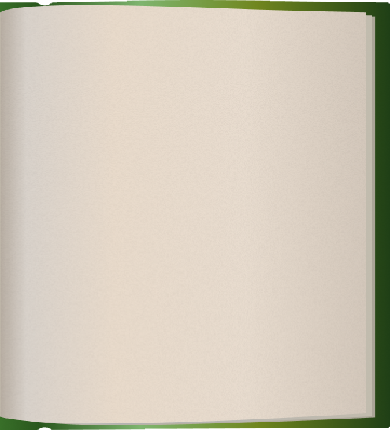
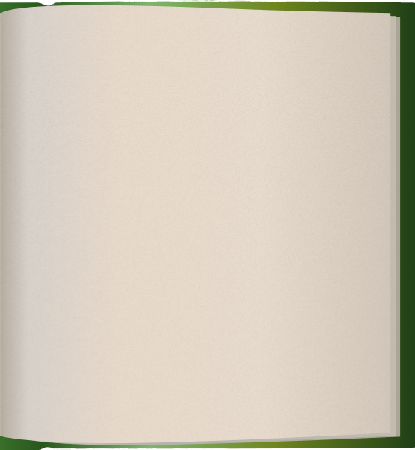
desktop version ready

diff --git a/src/Util/data.js b/src/Util/data.js
@@ -1,27 +1,50 @@
-import story1 from "../assets/story1.png";
-import story2 from "../assets/story2.png";
-import story3 from "../assets/story3.png";
-import story4 from "../assets/story4.png";
-import story5 from "../assets/story5.png";
-import story6 from "../assets/story6.png";
-import story7 from "../assets/story7.png";
-import story8 from "../assets/story8.png";
-import story9 from "../assets/story9.png";
-import story10 from "../assets/story10.png";
-import story11 from "../assets/story11.png";
-import story12 from "../assets/story12.png";
+import aStory1 from "../assets/aStory1.png";
+import aStory2 from "../assets/aStory2.png";
+import aStory3 from "../assets/aStory3.png";
+import aStory4 from "../assets/aStory4.png";
+import aStory5 from "../assets/aStory5.png";
+import aStory6 from "../assets/aStory6.png";
+import aStory7 from "../assets/aStory7.png";
+import aStory8 from "../assets/aStory8.png";
 
 export const stories = [
-  story1,
-  story2,
-  story3,
-  story4,
-  story5,
-  story6,
-  story7,
-  story8,
-  story8,
-  story10,
-  story11,
-  story12,
+  {
+    img: aStory1,
+    text: "Эта история берет свое начало в послевоенное время, когда мир пытался справиться с последствиями разрухи.",
+  },
+
+  {
+    img: aStory2,
+    text: "Мы с братом не могли сидеть сложа руки, веря в то, что способны помочь себе и окружающим пережить это время. ",
+  },
+
+  {
+    img: aStory3,
+    text: "Собрав на последние средства нашего селения экспедицию, мы отправились к берегам Южной Америки, где за легендами...",
+  },
+
+  {
+    img: aStory4,
+    text: " Но нашим мечтам было не суждено сбыться. Судно попало в сильный шторм и было полностью разрушено, а мы вынесены волнами на необитаемый остров.",
+  },
+
+  {
+    img: aStory5,
+    text: "7 долгих дней блужданий по острову обессилили нас. Лишь смелость сердец и вера в удачу вела вперед.",
+  },
+
+  {
+    img: aStory6,
+    text: "В тот день, когда отчаяние начало брать верх, впереди замаячил свет костра в непроходимых джунглях. Это казалось чудом. Им оно и было. ",
+  },
+
+  {
+    img: aStory7,
+    text: "У костра сидела девушка, красота которой затмевала лунный свет и заставляла сердце биться чаще.",
+  },
+
+  {
+    img: aStory8,
+    text: "Так начинается наша история. Продолжим ее вместе?",
+  },
 ];

diff --git a/src/components/MyBook/MyBook.jsx b/src/components/MyBook/MyBook.jsx
@@ -21,18 +21,22 @@ export function MyBook() {
   };
 
   const onPage = (e) => {
-    setBookPage(e.data);
+    if(e.data === 0) {
+      setBookPage(e.data);
+    } else if (e.data === 1) {
+      setBookPage(e.data);
+    }
   };
 
-
+console.log("render");
 
   return (
-    <>
+    <div className="container">
       <div className="flipbook">
         <HTMLFlipBook
           className="book"
-          width={390}
-          height={415}
+          width={435}
+          height={550}
           showCover={true}
           maxShadowOpacity={0}
           ref={bookRef}
@@ -40,7 +44,7 @@ export function MyBook() {
         >
           <PageCover number="0"></PageCover>
           {stories.map((story, index) => (
-            <Page key={index} number={index + 1} story={story} />
+            <Page key={index} number={index + 1} img={story.img} text={story.text} />
           ))}
         </HTMLFlipBook>
       </div>
@@ -49,7 +53,6 @@ export function MyBook() {
            <img src={openarrow} alt="open-book-arrow" />
         </button>
       ) : (
-        <div className="container">
           <div className="button-container">
             <button className="previous-button" type="button" onClick={prevButtonClick}>
               <img src={openarrow} alt="previous-arrow" />
@@ -58,18 +61,7 @@ export function MyBook() {
             <img src={nextarrow} alt="next-arrow" />
             </button>
           </div>
-        </div>
       )}
-     {/*  <div className="container">
-        <div>
-          <button type="button" onClick={prevButtonClick}>
-            Previous page
-          </button>
-          <button type="button" onClick={nextButtonClick}>
-            Next page
-          </button>
-        </div>
-      </div> */}
-    </>
+    </div>
   );
 }

diff --git a/src/components/Page/page.scss b/src/components/Page/page.scss
@@ -1,22 +1,25 @@
+@import "../../style/fonts";
+
+
 .rightpage {
     background: url("../../assets/page.png");
 }
 
 .rightpage::before {
     top: -20px;
-    right: -20px;
+    right: -29px;
     position: absolute;
     display: inline-block;
     z-index: -5;
-    width: 410px;
-    height: 450px; 
+    width: 465px;
+    height: 595px; 
     content: '';
-    background: url("../../assets/rightpagex.png");
+    background: url("../../assets/rptestR.png");
     background-size: cover;
 }
 
 .leftpage {
-    background: url("../../assets/page.png");
+    background: url("../../assets/lptestR.png");
 }
 
 .leftpage::before {
@@ -25,10 +28,10 @@
     position: absolute;
     display: inline-block;
     z-index: -5;
-    width: 410px;
-    height: 450px; 
+    width: 465px;
+    height: 595px; 
     content: '';
-    background: url("../../assets/leftpagex.png");
+    background: url("../../assets/leftpageok.png");
     background-size: cover;
 }
 
@@ -36,6 +39,11 @@
 .page {
     position: relative;
     padding-top: 50px;
+    display: flex;
+    flex-direction: column;
+    justify-content: space-between;
+    align-items: center;
+    
     
     &__story {
         border-radius: 5px;
@@ -44,12 +52,23 @@
     }
 
     &__number {
+        font-family: "Mariupol"; 
+        font-weight: 400;
         position: absolute;
-        bottom:-8px;
-        left: 191px;
+        bottom:-10px;
+        left: 213px;
     }
 
     &__frame {
         padding-top: 25px;
     }
+
+    &__text {
+        font-family: "Mariupol";
+        font-weight: 400;
+        font-size: 16px;
+        width: 380px;
+        height: 75px;
+    }
+
 }

diff --git a/src/components/MyBook/book.scss b/src/components/MyBook/book.scss
@@ -1,3 +1,12 @@
+.container {
+    position: relative;
+    max-width: 1288px;
+    min-height: 768px;
+    margin: 0 auto;
+    display: flex;
+    justify-content: center;
+    align-items: center;
+  }
 
 .book {
     text-align: center;
@@ -7,14 +16,14 @@
     display: flex;
     justify-content: center;
     align-items: center;
-    width: 780px;
-    height: 415px;
+    width: 870px;
+    height: 550px;
 }
 
 .open-button {
     position: absolute;
     top: 50%;
-    right: 490px;
+    right: 0px;
     transform: translateY(-50%);
     border: none;
     outline: none;
@@ -25,10 +34,11 @@
   }
 
   .previous-button {
+    width:48px;
+    height: 48px;
     position: absolute;
-    bottom: 100px;
-    right: 381px;
-    transform: translateY(-50%);
+    top: -5px;
+    left: -13px;
     border: none;
     outline: none;
     font-size: 0;
@@ -38,10 +48,11 @@
   }
 
   .next-button {
+    width:48px;
+    height: 48px;
     position: absolute;
-    bottom: 90px;
-    right: 317px;
-    transform: translateY(-50%);
+    top: 0px;
+    right: 5px;
     border: none;
     outline: none;
     font-size: 0;
@@ -55,14 +66,11 @@
     justify-content: space-between;
     align-items: center;
     position: absolute;
-    bottom: 20px;
-    width: 100%;
+    bottom: 10px;
+    width: 130px;
+    height: 50px;
   }
   
-  .container {
-    position: relative;
-    height: 100%;
-  }
   
   
   

diff --git a/src/components/Page/Page.jsx b/src/components/Page/Page.jsx
@@ -4,13 +4,14 @@ import story from "../../assets/story1.png";
 import frame from "../../assets/frame.png";
 import rightpagex from "../../assets/rightpagex.png";
 
-export const Page = React.forwardRef((props, ref) => {
-  const pageClass = props.number % 2 === 0 ? "rightpage" : "leftpage" ;
+export const Page = React.forwardRef(({img, text, number}, ref) => {
+  const pageClass = number % 2 === 0 ? "rightpage" : "leftpage" ;
   return (
       <div className={pageClass} id="page" ref={ref}>
         <div className="page">
-          <img сlassname="page__story" src={props.story} alt="story1" />
-          <p className="page__number">{props.number}</p>
+          <img сlassName="page__story" src={img} alt="story1" />
+          <p className= "page__text">{text}</p>
+          <p className="page__number">{number}</p>
           <img className="page__frame" src={frame} alt="page-frame" />
         </div>
       </div>

diff --git a/src/components/PageCover/pageCover.scss b/src/components/PageCover/pageCover.scss
@@ -1,13 +1,16 @@
 
 .page-cover {
     position: relative;
+
+    .book-cover {
+        position: absolute;
+        top: -32px;
+        left: -7px;
+        width: 480px;
+        height: 615px;
+     }
+     
 }
 
 
- .book-cover {
-    position: absolute;
-    top: -29px;
-    left: -4px;
-    width: 410px;
-    height: 470px;
- }
+ 

diff --git a/src/App.scss b/src/App.scss
@@ -1,7 +1,6 @@
 .App {
   width: 100vw;
   height: 100vh;
-  display: flex;
   background: url("../../react-flip-book/src/assets/background.svg");
   background-size: cover;
   justify-content: center;

diff --git a/src/style/_fonts.scss b/src/style/_fonts.scss
@@ -1,0 +1,7 @@
+@font-face { 
+    font-family: "Mariupol"; 
+    src: url("../fonts/Mariupol-Regular.woff") format("woff2");
+    font-weight: 400;
+    font-style: normal;
+    font-display: swap;
+}
